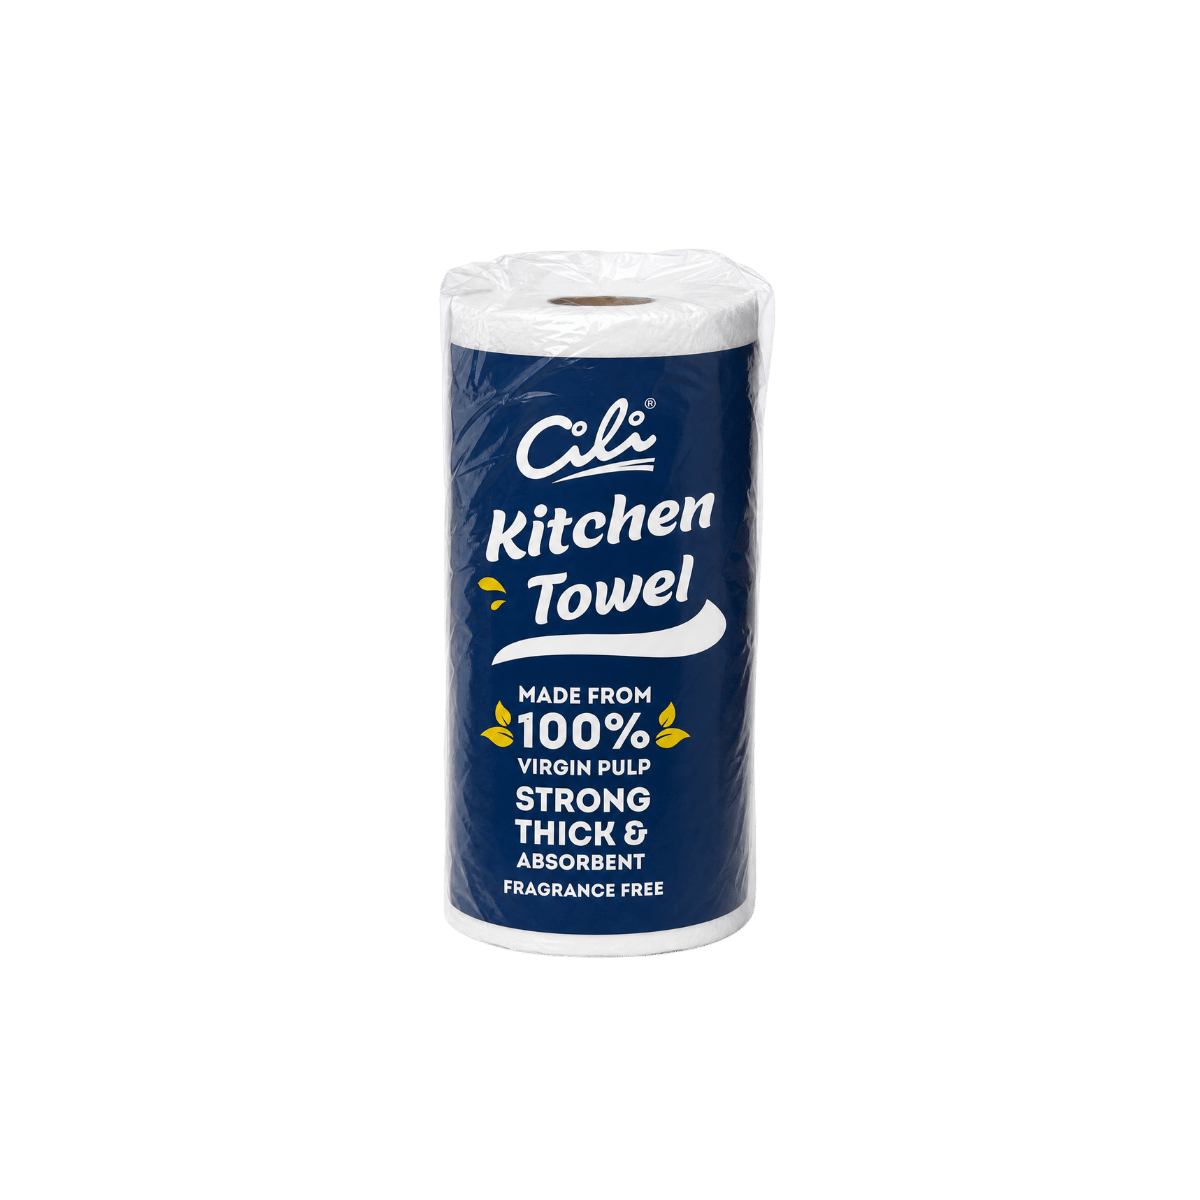
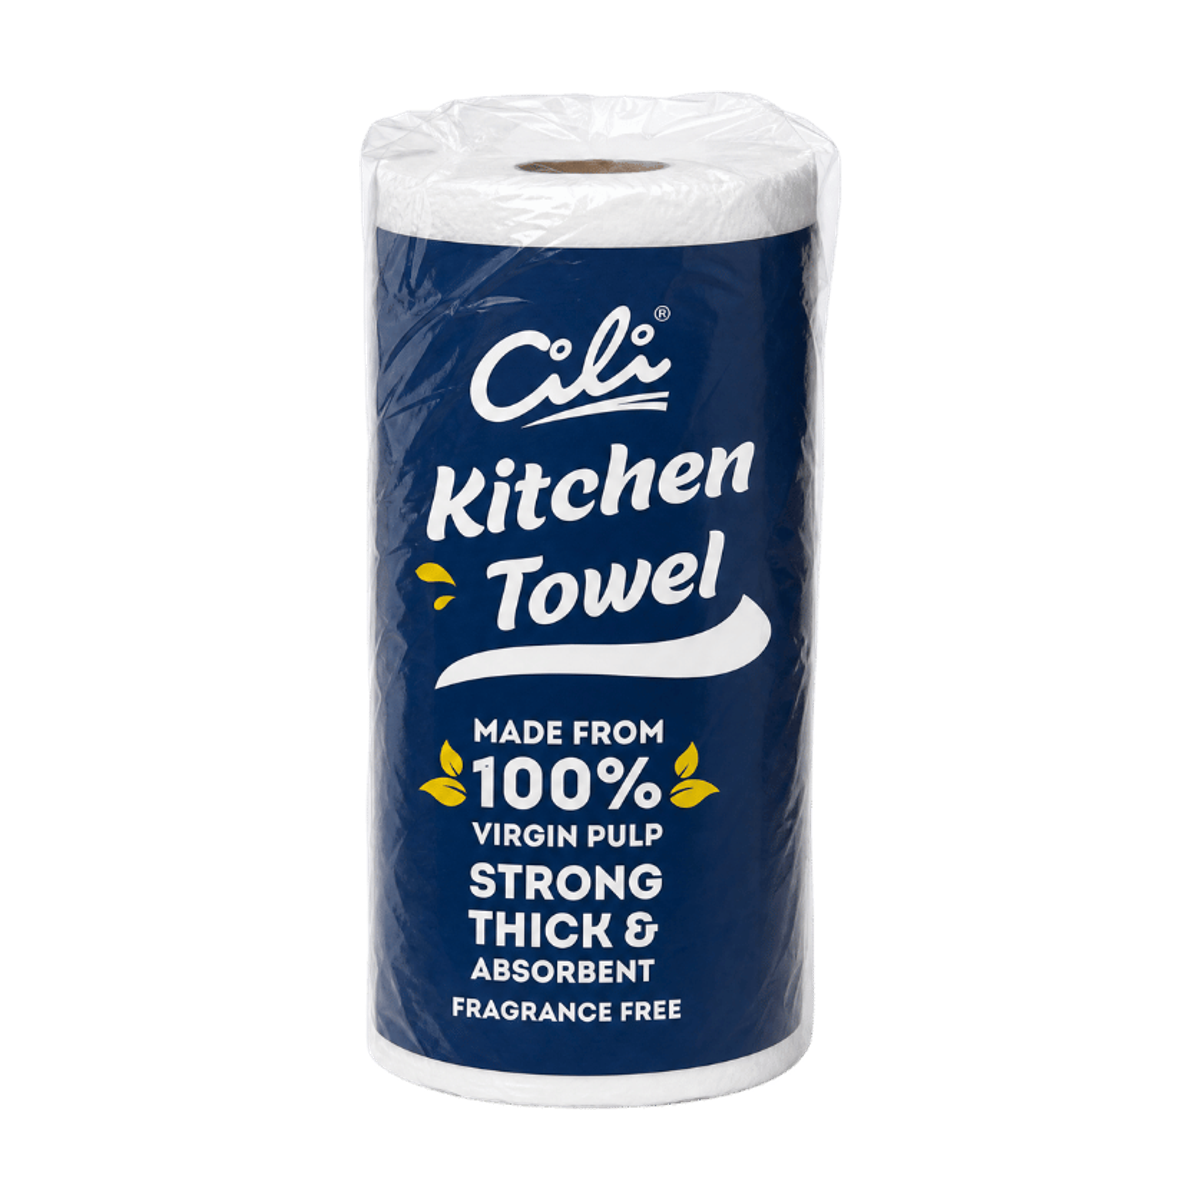
Enlarge and normalise product photography on /products
Reframe all 21 brand/SKU product photos onto a consistent 1200x1200
transparent canvas at deliberate fill targets so products read big and
proportionate instead of floating in whitespace:
- Hero (main grid): Cili 92, Wasabi 88, Unisoft 96, Aimishu 98,
  BabyLike 97, SUMO 97 (physically larger packs read larger)
- Brand-page SKUs: uniform 85

Also, on the products page:
- Cut the tissue-row image padding (p-10 -> p-2) so products fill
  the coloured panel instead of sitting boxed in a wide margin.
- Widen the personal-care card image column (40% -> 60%, padding
  removed, min-height bumped) so BabyLike and SUMO render ~30% larger.
- Remove the redundant "Product families" thumbnail strip (and its
  now-dead data array + unused import).

Originals preserved off-repo; every asset re-padded, not upscaled from
a bad crop. No copy/colour/structure changes beyond the above.

Changed region(s): [[0.3083, 0.0617, 0.7092, 0.925]]

diff --git a/app/products/page.tsx b/app/products/page.tsx
@@ -2,7 +2,7 @@ import type { Metadata } from "next";
 import Image from "next/image";
 import Link from "next/link";
 import { Button } from "@/components/ui";
-import { MarketingIcon, type MarketingIconName } from "@/components/marketing-icons";
+import { MarketingIcon } from "@/components/marketing-icons";
 import { T } from "@/components/translated-text";
 import { brandPortfolio } from "@/lib/brand-portfolio";
 
@@ -14,90 +14,6 @@ export const metadata: Metadata = {
 
 const tissueBrands = brandPortfolio.slice(0, 4);
 const careBrands = brandPortfolio.slice(4);
-
-const productFamilies: {
-  title: string;
-  brands: string;
-  description: string;
-  image?: string;
-  icon?: MarketingIconName;
-  href: string;
-  accent: string;
-  tint: string;
-}[] = [
-  {
-    title: "Facial Tissue",
-    brands: "Unisoft",
-    description: "Box and soft-pack formats for homes, offices, retail and institutional use.",
-    image: "/images/unikota/product-facial.webp",
-    href: "/products/unisoft",
-    accent: "#298dc8",
-    tint: "#edf8fd",
-  },
-  {
-    title: "Hanging Tissue",
-    brands: "Aimishu",
-    description: "Space-saving packs made for convenient everyday access.",
-    image: "/images/unikota/product-hanging.webp",
-    href: "/products/aimishu",
-    accent: "#168f88",
-    tint: "#edf9f7",
-  },
-  {
-    title: "Serviettes & Napkins",
-    brands: "Cili · Wasabi · Cili Padi",
-    description: "Practical paper serviettes for mamaks, restaurants, street food and catering.",
-    image: "/images/unikota/product-serviettes.webp",
-    href: "/products/cili",
-    accent: "#e3292f",
-    tint: "#fff3f2",
-  },
-  {
-    title: "Toilet Rolls",
-    brands: "Unisoft",
-    description: "Multi-pack and bulk options for households, washrooms and institutions.",
-    icon: "package",
-    href: "/products/unisoft",
-    accent: "#00297A",
-    tint: "#eef5ff",
-  },
-  {
-    title: "Kitchen Towels",
-    brands: "Unisoft",
-    description: "Absorbent everyday rolls for kitchens, food service and cleaning routines.",
-    icon: "storefront",
-    href: "/products/unisoft",
-    accent: "#00297A",
-    tint: "#f4f8fb",
-  },
-  {
-    title: "Baby Care",
-    brands: "BabyLike",
-    description: "Everyday diapers for daily baby care and growing little ones.",
-    icon: "package",
-    href: "/products/babylike",
-    accent: "#4c3d95",
-    tint: "#f4f1ff",
-  },
-  {
-    title: "Adult Care",
-    brands: "SUMO",
-    description: "High-absorbency adult diapers built for a secure, confident everyday fit.",
-    icon: "package",
-    href: "/products/sumo",
-    accent: "#174a91",
-    tint: "#eef5ff",
-  },
-  {
-    title: "Custom & OEM",
-    brands: "Your brand, our capability",
-    description: "Product format, artwork, packaging and supply developed around your project.",
-    image: "/images/unikota/product-oem.webp",
-    href: "/oem",
-    accent: "#00297A",
-    tint: "#eef5ff",
-  },
-];
 
 export default function ProductsPage() {
   return (
@@ -138,7 +54,7 @@ export default function ProductsPage() {
                     alt={`${brand.name} products`}
                     fill
                     sizes="(min-width: 1024px) 50vw, 100vw"
-                    className="object-contain p-10"
+                    className="object-contain p-2"
                   />
                 ) : null}
               </div>
@@ -164,12 +80,12 @@ export default function ProductsPage() {
               <Link
                 key={brand.slug}
                 href={`/products/${brand.slug}`}
-                className="focus-ring group grid min-h-[280px] border border-stone-200 p-8 sm:grid-cols-[40%_60%] sm:p-10"
+                className="focus-ring group grid min-h-[340px] border border-stone-200 p-8 sm:grid-cols-[60%_40%] sm:p-8"
                 style={{ backgroundColor: brand.tint, borderTop: `6px solid ${brand.accent}` }}
               >
-                <div className="relative min-h-24 sm:min-h-full">
+                <div className="relative min-h-28 sm:min-h-full">
                   {brand.image ? (
-                    <Image src={brand.image} alt={`${brand.name} products`} fill sizes="280px" className="object-contain p-2" />
+                    <Image src={brand.image} alt={`${brand.name} products`} fill sizes="440px" className="object-contain" />
                   ) : (
                     <Image src={brand.logo} alt={`${brand.name} logo`} fill sizes="280px" className="object-contain object-left" />
                   )}
@@ -181,34 +97,6 @@ export default function ProductsPage() {
                   <span className="mt-auto inline-flex items-center gap-2 pt-5 text-sm font-bold" style={{ color: brand.accent }}>
                     <T k="site.common.explore" fallback="Explore" /> {brand.name} <MarketingIcon name="arrow" size={16} />
                   </span>
-                </div>
-              </Link>
-            ))}
-          </div>
-        </div>
-      </section>
-
-      <section className="bg-white px-4 py-16 sm:px-6 lg:px-8 lg:py-24">
-        <div className="mx-auto max-w-page">
-          <h2 className="font-display text-2xl font-bold text-brand-900"><T k="site.products.productsTitle" fallback="Product families" /></h2>
-          <div className="mt-8 flex flex-wrap gap-6 sm:gap-8">
-            {productFamilies.slice(0, 6).map((family) => (
-              <Link
-                key={family.title}
-                href={family.href}
-                className="focus-ring group flex flex-col items-center gap-3 text-center hover:opacity-70 transition-opacity"
-              >
-                <div className="rounded-full p-4" style={{ backgroundColor: family.tint }}>
-                  {family.image ? (
-                    <div className="relative h-12 w-12 overflow-hidden">
-                      <Image src={family.image} alt={family.title} fill className="object-cover rounded-full" sizes="48px" />
-                    </div>
-                  ) : (
-                    <MarketingIcon name={family.icon ?? "package"} size={48} style={{ color: family.accent }} />
-                  )}
-                </div>
-                <div>
-                  <p className="text-sm font-semibold text-brand-900"><T k={`site.products.family${productFamilies.indexOf(family) + 1}.title`} fallback={family.title} /></p>
                 </div>
               </Link>
             ))}
